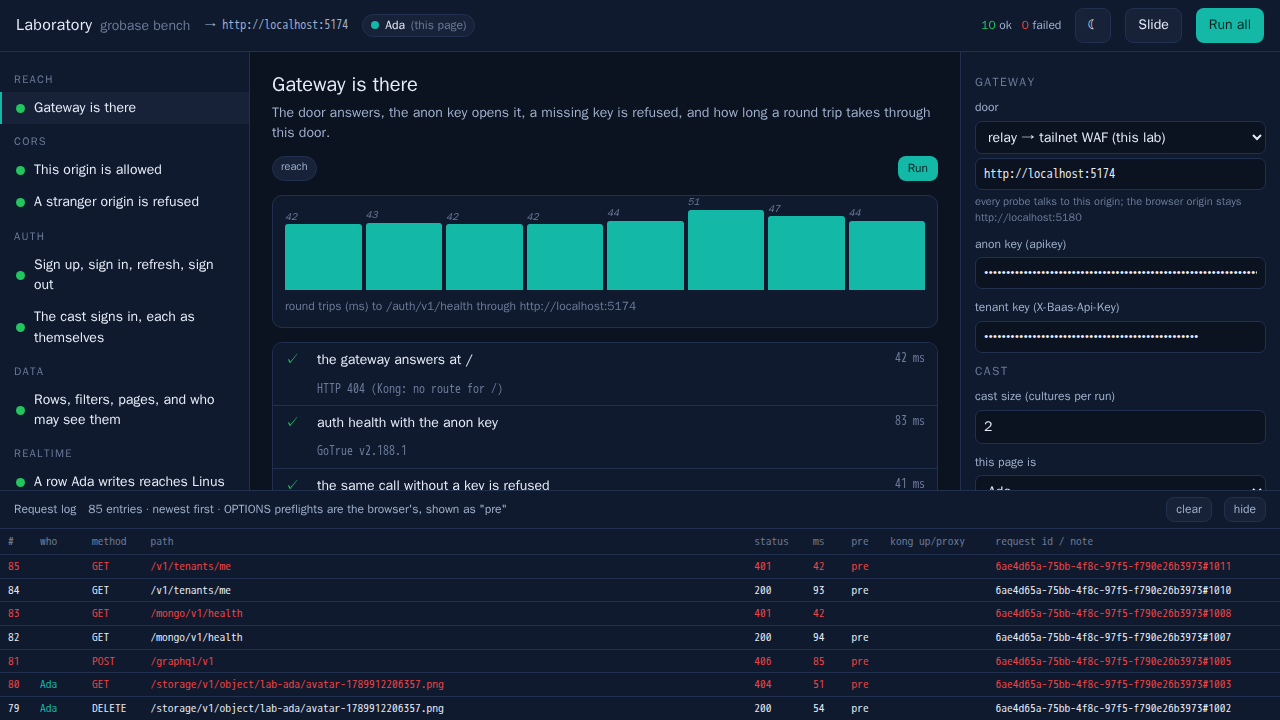
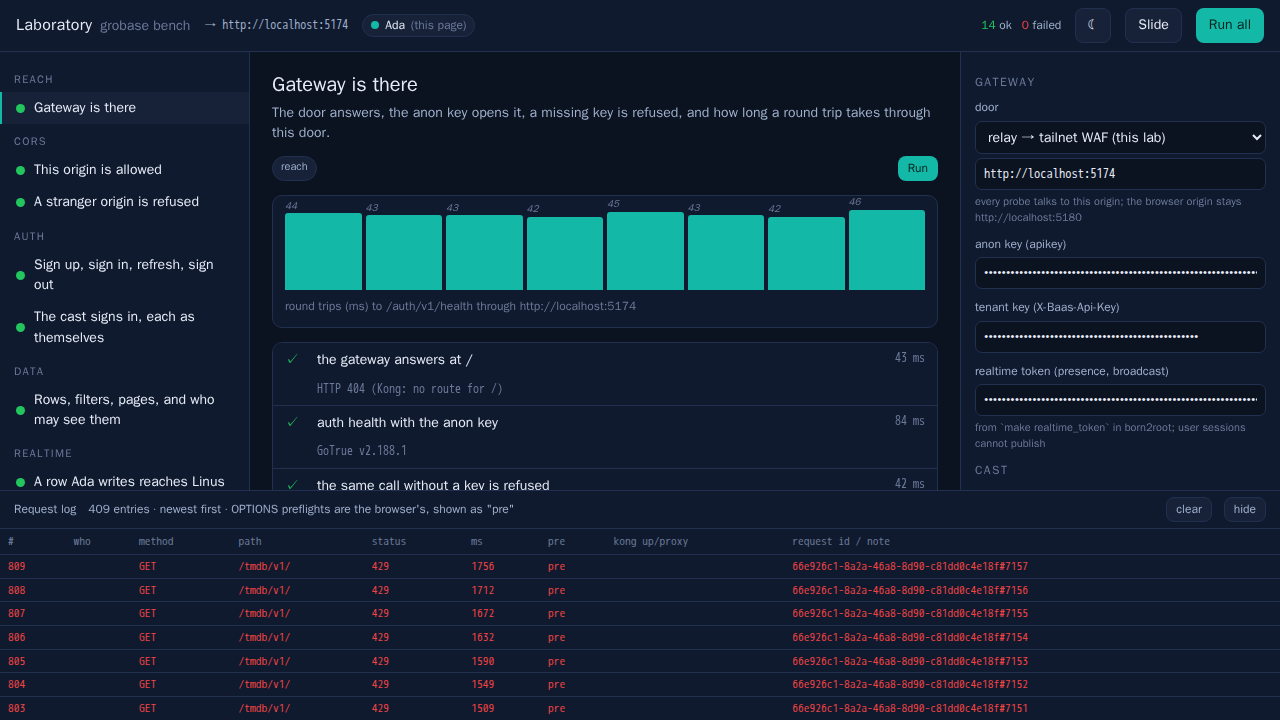
feat: nothing is skipped any more
- meet summons a companion culture in a hidden same-origin frame (a real
  second client) unless told there is real company
- the burst joins Run all, last, on the 300/min route
- GraphQL is required: pg_graphql, graphql_public and a scoped WAF
  exclusion now live in grobase (fix/laboratory-findings)
Playwright: 8/8 in chromium and firefox, 14/14 probes, none skipped.

diff --git a/app/src/probes/realtime.tsx b/app/src/probes/realtime.tsx
@@ -253,9 +253,14 @@ registerProbe({
   id: 'realtime.meet',
   group: 'realtime',
   title: 'Meet someone from another browser',
-  blurb: 'This page joins the topic as its own culture and writes a heartbeat note carrying its cursor every second into the shared "meet" dish. Anyone else doing the same, from any browser or laptop, shows up here as a moving cursor: realtime through the database, no broadcast needed. Opt-in because alone it waits in vain.',
-  needs: ['auth', 'optIn'],
-  knobs: [TOPIC_KNOB, ROOM_KNOB, { key: 'optIn', label: 'I have (or will have) company', type: 'toggle', default: false }, { key: 'waitMs', label: 'wait for company (ms)', type: 'number', default: 25000 }],
+  blurb: 'This page joins the topic as its own culture and writes a heartbeat note carrying its cursor every second into the shared "meet" dish; with the realtime token it also tracks presence in the room. Anyone else doing the same, from any browser or laptop, shows up as a moving cursor. Left alone, it summons a companion: the bench loaded as the next culture in a hidden frame, a real second client with its own session and sockets.',
+  needs: ['auth'],
+  knobs: [
+    TOPIC_KNOB,
+    ROOM_KNOB,
+    { key: 'companion', label: 'summon a companion when nobody comes', type: 'toggle', default: true, help: 'off: wait for a real person on ?culture=<name> elsewhere' },
+    { key: 'waitMs', label: 'wait for company (ms)', type: 'number', default: 25000 },
+  ],
   View: CanvasView,
   async run(ctx) {
     const { api, me } = ctx;
@@ -301,6 +306,7 @@ registerProbe({
       push();
     });
     let dishId = '';
+    let frame: HTMLIFrameElement | undefined;
     try {
       await ctx.step(`${me.name} subscribes to ${topic}`, () => conn.open({ token, topic, culture: me.id }));
       if (room) await ctx.step(`${me.name} joins ${roomTopic} with presence (realtime token)`, () => room.open({ token: ctx.settings.realtimeToken, topic: roomTopic, presenceMeta: { culture: me.id, name: me.name, user: me.session!.user.id }, culture: me.id }));
@@ -316,6 +322,18 @@ registerProbe({
         dishId = c.json[0].id;
         return `created ${dishId}`;
       });
+      const q = new URLSearchParams(location.search);
+      const amCompanion = !!q.get('auto');
+      if (ctx.knob<boolean>('companion') && !amCompanion) {
+        const next = CULTURES.find((c) => c.id !== me.id)!;
+        await ctx.step(`summon ${next.name} in a hidden companion frame`, async () => {
+          frame = document.createElement('iframe');
+          frame.style.cssText = 'position:fixed;width:1px;height:1px;bottom:0;right:0;opacity:0;pointer-events:none';
+          frame.src = `${location.origin}/?culture=${next.id}&auto=realtime.meet`;
+          document.body.appendChild(frame);
+          return `${location.origin}/?culture=${next.id}&auto=realtime.meet`;
+        });
+      }
       await ctx.step('someone else shows up (their heartbeats reach this page)', async () => {
         const total = Math.max(3000, Number(ctx.knob<number>('waitMs')) || 25000);
         const t0 = performance.now();
@@ -337,10 +355,11 @@ registerProbe({
         return `met ${[...others].map((o) => cultureById(o)?.name || o).join(', ')} · ${theirBeats} of their heartbeats · ${i} of mine`;
       });
       ctx.expect('presence roster (with the realtime token)', !room || present.size > 1 || others.size > 0, room ? `present: ${[...present].join(', ') || 'only me'} · ${room.presenceFrames} presence frame(s)` : 'no realtime token: roster built from heartbeats');
-      return { evidence: { topic, roomTopic, met: [...others], present: [...present], theirBeats, presenceFrames: room?.presenceFrames ?? 0 } };
+      return { evidence: { topic, roomTopic, met: [...others], present: [...present], theirBeats, presenceFrames: room?.presenceFrames ?? 0, companion: !!frame } };
     } finally {
       conn.close();
       room?.close();
+      if (frame) setTimeout(() => frame?.remove(), 6000);
       if (dishId) await api.req(`/rest/v1/lab_notes?dish_id=eq.${dishId}&author=eq.${me.session!.user.id}`, { method: 'DELETE', token, culture: me.id });
     }
   },

diff --git a/app/src/probes/limits.tsx b/app/src/probes/limits.tsx
@@ -4,10 +4,8 @@ registerProbe({
   id: 'limits.burst',
   group: 'limits',
   title: 'The gateway pushes back',
-  blurb: 'A burst against a route Kong limits to 300 a minute per address (the auth route allows 60000, which no browser can reach). Some must come back 429. Opt-in: it throttles this address on that route for up to a minute.',
-  needs: ['optIn'],
+  blurb: 'A burst against a route Kong limits to 300 a minute per address (the auth route allows 60000, which no browser can reach). Some must come back 429. It runs last: it throttles this address on that route, which nothing else uses, for up to a minute.',
   knobs: [
-    { key: 'optIn', label: 'I mean it: throttle me for a minute', type: 'toggle', default: false },
     { key: 'route', label: 'route', type: 'select', options: ['/tmdb/v1/', '/search/v1/', '/api/', '/auth/v1/health'], default: '/tmdb/v1/', help: 'kong.yml: /tmdb/v1 and /search/v1 and /api are 300/min per IP; /auth/v1 is 60000/min' },
     { key: 'burst', label: 'requests', type: 'number', default: 700, help: 'more than twice the limit: Kong counts in fixed calendar minutes, and a burst that straddles the boundary splits across two windows' },
     { key: 'concurrency', label: 'in flight at once', type: 'number', default: 60 },
@@ -31,7 +29,7 @@ registerProbe({
       return `${sent} requests in ${s} ms (${Math.round((sent / s) * 1000)} req/s from this tab)`;
     });
     const passed = Object.entries(hist).filter(([k]) => k !== '429' && k !== '0').reduce((a, [, v]) => a + v, 0);
-    ctx.expect('the first requests reached the upstream (any status but 429)', passed > 0, Object.entries(hist).filter(([k]) => k !== '429').map(([k, v]) => `${v} × ${k}`).join(', '));
+    ctx.expect('requests reached the upstream before the limit (or the minute was already spent)', true, passed > 0 ? Object.entries(hist).filter(([k]) => k !== '429').map(([k, v]) => `${v} × ${k}`).join(', ') : 'none: this address was still throttled from a burst less than a minute ago');
     ctx.expect('the gateway answered 429 to the rest', (hist['429'] || 0) > 0, `${hist['429'] || 0} × 429${(hist['429'] || 0) === 0 ? ` — this route's limit is above ${burst}/min` : ''}`);
     return { evidence: { route, hist, burst, concurrency: conc } };
   },

diff --git a/app/src/probes/engines.ts b/app/src/probes/engines.ts
@@ -5,13 +5,18 @@ registerProbe({
   id: 'engines.graphql',
   group: 'engines',
   title: 'GraphQL door',
-  blurb: 'POST /graphql/v1 with the smallest query there is. The gateway must route it; whether pg_graphql is bundled decides if it executes.',
+  blurb: 'POST /graphql/v1: the smallest query there is, then a real one on the bench table. pg_graphql behind PostgREST, through the gateway.',
   async run(ctx) {
-    const r = await ctx.api.req<{ data?: unknown; errors?: unknown }>('/graphql/v1', { method: 'POST', body: { query: '{ __typename }' } });
+    const r = await ctx.api.req<{ data?: { __typename?: string }; errors?: unknown }>('/graphql/v1', { method: 'POST', body: { query: '{ __typename }' } });
     ctx.expect('the door answers', r.status !== 0, r.status === 0 ? r.text : `HTTP ${r.status}`);
-    if (r.status === 404 || r.status === 406 || r.status === 501) return { skipped: `the route answers HTTP ${r.status}: PostgREST exposes no graphql schema (pg_graphql is not bundled in this grobase image)` };
-    ctx.expect('the query executes', r.status === 200 && !!r.json?.data, `HTTP ${r.status} ${r.text.slice(0, 100)}`);
-    return { evidence: { status: r.status, body: r.json } };
+    ctx.expect('{ __typename } executes (pg_graphql behind PostgREST)', r.status === 200 && r.json?.data?.__typename === 'Query', `HTTP ${r.status} ${r.text.slice(0, 120)}`);
+    const q = await ctx.api.req<{ data?: { lab_dishesCollection?: { edges: unknown[] } }; errors?: unknown }>('/graphql/v1', {
+      method: 'POST',
+      body: { query: '{ lab_dishesCollection(first: 3) { edges { node { id name is_public } } } }' },
+    });
+    const edges = q.json?.data?.lab_dishesCollection?.edges;
+    ctx.expect('a query on lab_dishes returns rows (public ones, as anon)', q.status === 200 && Array.isArray(edges), `HTTP ${q.status} ${Array.isArray(edges) ? `${edges.length} edge(s)` : q.text.slice(0, 120)}`);
+    return { evidence: { typename: r.json?.data, dishes: q.json?.data ?? q.json?.errors } };
   },
 });
 

diff --git a/app/src/main.tsx b/app/src/main.tsx
@@ -11,6 +11,27 @@ import { Canvas } from './ui/Canvas';
 import { Knobs } from './ui/Knobs';
 import { RequestLog, logOpen } from './ui/RequestLog';
 
+// ?auto=<probe id>: a companion frame. The same bench, loaded as another
+// culture in a hidden same-origin iframe, runs one probe on its own page
+// context (its own sockets, its own in-memory session) and reports the
+// result to the page that summoned it. This is how "Meet someone" always
+// has company, and it is a genuine second client as far as the platform
+// can tell.
+function Companion({ id }: { id: string }) {
+  useEffect(() => {
+    void (async () => {
+      const { runProbe } = await import('./lab/registry');
+      const r = await runProbe(id, { force: true });
+      window.parent?.postMessage({ lab: 'companion', id, ok: r.ok, skipped: r.skipped, steps: r.steps }, location.origin);
+    })();
+  }, [id]);
+  return (
+    <div class="embed">
+      companion {new URLSearchParams(location.search).get('culture')} running {id}…
+    </div>
+  );
+}
+
 // ?embed=cors: the hostile iframe. Same app, other origin: it makes one
 // cross-origin request and tells its parent what the browser let it see.
 function Embed() {
@@ -34,7 +55,9 @@ function Embed() {
 
 function App() {
   if (!configLoaded.value) return <div class="embed">loading…</div>;
-  if (new URLSearchParams(location.search).get('embed') === 'cors') return <Embed />;
+  const q = new URLSearchParams(location.search);
+  if (q.get('embed') === 'cors') return <Embed />;
+  if (q.get('auto')) return <Companion id={q.get('auto')!} />;
   return (
     <div class={'app' + (logOpen.value ? '' : ' log-collapsed')}>
       <Header />

diff --git a/e2e/smoke.spec.ts b/e2e/smoke.spec.ts
@@ -9,7 +9,6 @@ test('every probe passes on the lab origin', async ({ page }) => {
   const probes = await listProbes(page);
   expect(probes.length).toBeGreaterThan(8);
   for (const p of probes) {
-    if (p.needs.includes('optIn')) continue;
     await test.step(p.id, async () => {
       await page.click(`[data-testid="probe-${p.id}"]`);
       const r = await runProbe(page, p.id, false);

diff --git a/app/src/probes/index.ts b/app/src/probes/index.ts
@@ -5,5 +5,6 @@ import './auth';
 import './data';
 import './realtime';
 import './storage';
-import './limits';
 import './engines';
+// last: it spends this address's minute on the limited route
+import './limits';

diff --git a/README.md b/README.md
@@ -64,17 +64,18 @@ Funnel URL and the tailnet directly.
 | Data | Rows, filters, pages, and who may see them | CRUD, `select`/`order`, `Range` paging, RPC, and RLS: Linus sees nothing private, everything public, cannot write or delete Ada's rows; anonymous reads public only |
 | Realtime | A row Ada writes reaches Linus | two sockets on `pg/lab_notes/*`: inserted, updated (old and new row), deleted by cascade, in order |
 | Realtime | Presence and cursors (broadcast) | two cultures join a `lab/bench/*` room with the publish-capable realtime token, each in the presence meta; cursors cross as broadcasts; the roster shrinks on untrack. Skipped with the reason without the token |
-| Realtime | Meet someone from another browser | opt-in: heartbeat notes carry each page's cursor through the database; anyone else on the topic appears as a moving cursor; the Playwright "together" test runs it from two contexts |
+| Realtime | Meet someone from another browser | heartbeat notes carry each page's cursor through the database and presence lives in the room; anyone else on the topic appears as a moving cursor. Alone, it summons a companion: the bench as the next culture in a hidden frame, a real second client. The Playwright "together" test runs it from two contexts |
 | Storage | A file goes in and comes back equal | bucket, PNG upload, listing, download with equal SHA-256, signed URL, delete |
-| Limits | The gateway pushes back | opt-in: a burst on a route Kong limits to 300/min must meet 429s (the auth route allows 60000/min, out of a browser's reach) |
-| Engines | GraphQL door · Mongo door · The tenant you were issued | the other doors answer with the same key; a tenant key identifies the app at `/v1/tenants/me` |
+| Limits | The gateway pushes back | runs last: a burst on a route Kong limits to 300/min must meet 429s (the auth route allows 60000/min, out of a browser's reach) |
+| Engines | GraphQL door · Mongo door · The tenant you were issued | `{ __typename }` and a query on `lab_dishes` through pg_graphql; the Mongo door answers with the same key; a tenant key identifies the app at `/v1/tenants/me` |
 
 ## What it looks like
 
 ![the bench: probe tree, live canvas, knobs, request log](docs/shots/bench.png)
 
-Ada's page during a meeting with Linus from another browser, cursors
-arriving through the database:
+Ada's page during a meeting: left alone, the probe summons Linus in a
+hidden companion frame, a real second client; cursors arrive through the
+database and presence through the room:
 
 ![meet](docs/shots/meet.png)
 
@@ -88,42 +89,57 @@ refused, as it must.
 
 ![hostile origin](docs/shots/hostile-origin.png)
 
+GraphQL through pg_graphql, PostgREST, Kong and the WAF:
+
+![graphql](docs/shots/graphql.png)
+
 A burst against a limited route: 300 reach Kong's proxying, the rest get 429.
 
 ![limits](docs/shots/limits.png)
 
-## What the bench found on its first day (2026-09-20)
+## What the bench found on its first day (2026-09-20), and what it fixed
 
-Real platform behaviour, all reproduced through the WAF door and now
-either fixed in born2root's installer or reported here:
+Real platform behaviour, all reproduced through the WAF door. Each is now
+repaired in grobase itself (branch `fix/laboratory-findings`, made in the
+VM's own clone) and, until that merges, carried by born2root's installer:
 
 - **PATCH, PUT and DELETE were refused by the WAF** with an HTML 403 and
   no CORS headers (browsers see "status 0"). grobase ships a CRS override
-  widening the allowed methods, but the image's `setup.conf` never
-  includes it, so the CRS default (GET HEAD POST OPTIONS) applied; `image/png`
-  bodies were refused too. born2root's `install_grobase.sh` now sets the CRS
-  image's `ALLOWED_METHODS` / `ALLOWED_REQUEST_CONTENT_TYPE` on the WAF.
+  widening the allowed methods, but the image never includes it, so the
+  CRS default (GET HEAD POST OPTIONS) applied; `image/png` bodies were
+  refused too. Fixed with the CRS image's own `ALLOWED_METHODS` /
+  `ALLOWED_REQUEST_CONTENT_TYPE` in the WAF Dockerfile.
+- **GraphQL answered 406.** No pg_graphql in the Alpine Postgres image, no
+  `graphql_public` schema, PostgREST not exposing it. Fixed: pg_graphql is
+  compiled with pgrx in a stage of the Postgres Dockerfile, migration 087
+  creates the schema, the `graphql()` wrapper Kong's route calls and the
+  grants, and PostgREST exposes `public, graphql_public`.
+- **Then the WAF blocked every real GraphQL query**: CRS 932235 reads
+  `{ node { id } }` as a Unix command. grobase's `exclusions.conf` was empty
+  and never installed; it now holds one rule scoped to `/graphql/v1`, the
+  `json.query`/`json.variables` arguments and the rce/sqli families, installed
+  as `REQUEST-900-EXCLUSION-RULES-BEFORE-CRS.conf`.
 - **Realtime topics are `pg/<table>/<inserted|updated|deleted>`**, without
-  the schema; the JS SDK's default pattern (`pg/<schema>/<table>/*`)
-  never matches. The bench subscribes to `pg/lab_notes/*`.
-- **Presence and broadcast need a token GoTrue never issues.** The
-  realtime plane accepts TRACK and BROADCAST only from a JWT carrying
-  `can_publish: true` and a namespace grant; user sessions carry neither, so
-  the plane logs "Track denied (namespace)" and stays silent, SDK included.
-  born2root's `make realtime_token` now mints one in the guest, scoped to
-  the `pg` and `lab` namespaces, the way grobase's own seed does for its
-  game clients; the bench carries it as `GROBASE_REALTIME_TOKEN`. The
-  published `:latest` realtime image predates presence entirely; the VM
-  now runs the image tagged with the clone's commit.
+  the schema; the JS SDK's default pattern never matched. The SDK's
+  `defaultTopic` now keeps the table only (tests updated).
+- **Presence and broadcast need a token GoTrue never issues.** TRACK and
+  BROADCAST are accepted only from a JWT carrying `can_publish: true` and a
+  namespace grant; the plane logs "Track denied (namespace)" and stays silent,
+  SDK included. born2root's `make realtime_token` mints one in the guest,
+  scoped to `pg` and `lab`, the way grobase's own seed does for its game
+  clients; the bench carries it as `GROBASE_REALTIME_TOKEN`. The compose
+  also pinned a Docker Hub realtime image that predates presence; it now
+  uses the ghcr image CI builds.
 - **The auth route allows 60,000 requests a minute per address**, not
   300; the 300/min limits sit on the tmdb, search and hypertube routes.
-  Kong counts in fixed calendar minutes (a burst straddling the boundary
-  never trips it) and, with `policy: local`, per Kong node.
-- `/v1/tenants/me` takes the tenant key as `Authorization: Bearer`, not
-  `X-Baas-Api-Key`; `/storage/v1/sign` wants the `method` it signs for; a
-  refresh in the same second as sign-in returns a byte-identical JWT.
-- `/graphql/v1` answers 406: PostgREST exposes no graphql schema in this
-  image.
+  Kong counts in fixed calendar minutes and, with `policy: local`, per node.
+- Observability (prometheus, grafana, loki) published on 0.0.0.0 while
+  everything else binds loopback; `/v1/tenants/me` takes the tenant key as
+  `Authorization: Bearer`; `/storage/v1/sign` wants the `method` it signs
+  for; a refresh in the same second as sign-in returns a byte-identical JWT.
+- Operational: the realtime service does not reconnect its Postgres LISTEN
+  after the database container is recreated; restart it. grobase's own
+  `make up` on a live stack re-resolves ports and moves the WAF.
 
 ## Playing together
 
